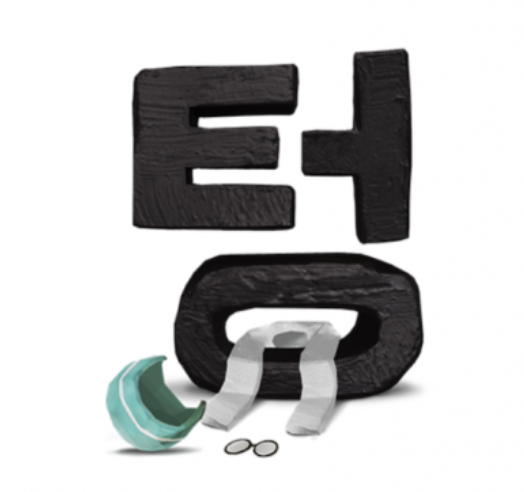
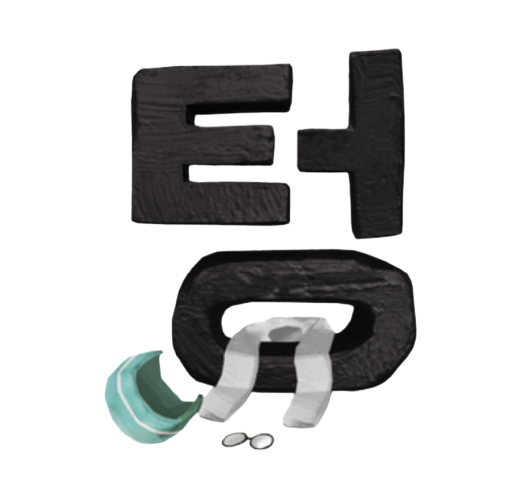
chore: :guitar: 텅 이미지 누끼 따고 filter 적용

diff --git a/client/src/styles/variables.scss b/client/src/styles/variables.scss
@@ -15,6 +15,7 @@
   --dark-theme-button: translateY(100px);
   --box-shadow: none;
   --img-filter: invert(1);
+  --img-filter2: invert(0.3);
 }
 :root[theme='light'] {
   --background-color: #eee;
@@ -34,6 +35,7 @@
   --dark-theme-button: translateY(0);
   --box-shadow: #ddd 2px 2px 20px;
   --img-filter: invert(0);
+  --img-filter2: invert(0);
 }
 
 $primary-color1: #2ac1bc;

diff --git a/client/src/styles/history/emptyHistory.scss b/client/src/styles/history/emptyHistory.scss
@@ -10,6 +10,7 @@
   align-items: center;
 
   img {
+    filter: var(--img-filter2);
     opacity: 0.9;
     width: 7rem;
     height: auto;
